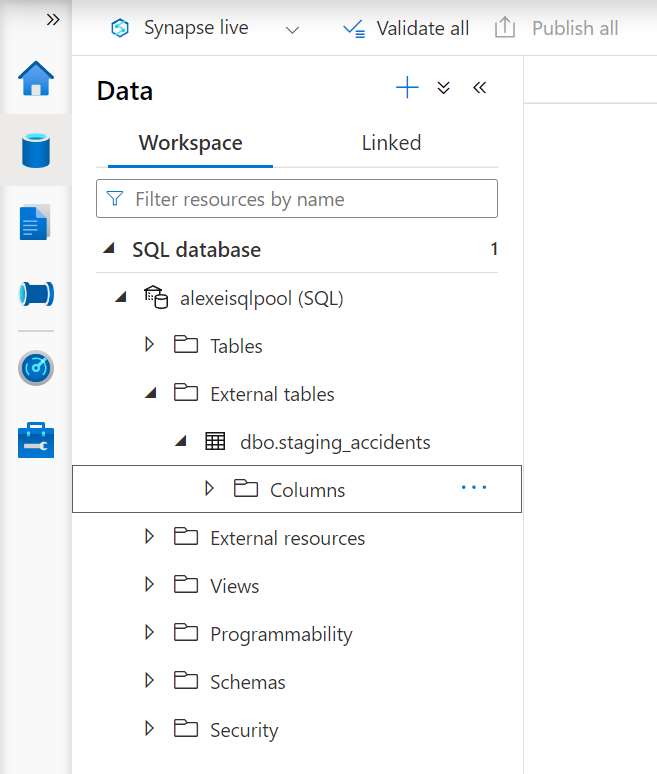
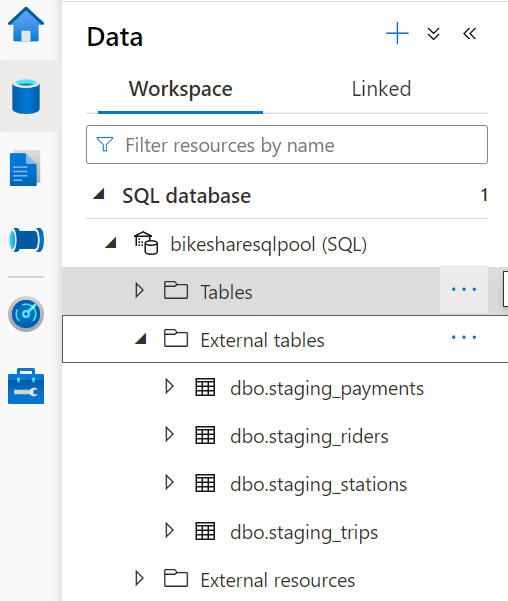
staging tables

diff --git a/README.md b/README.md
@@ -99,15 +99,19 @@ In the data section, you will find your newly created link :
 
 Once in Blob storage, the files will be shown in the data lake node in the Synapse Workspace. From here, we can use the script generating function to load the data from blob storage into external staging tables in the data warehouse we created using the Dedicated SQL Pool.
 
-Upload us-accidents.csv to Data/Azure DataLake Storage Gen2 ??????
+Upload all data files to Data/Azure DataLake Storage Gen2 ??????
 
-1. Create external table
+1. Create external table for all the staging tables.
 <img src="/pictures/create-external-table.png" title="create external table"  width="700">
+<img src="/pictures/create-external-table-config.png" title="create external table"  width="700">
 
-2. Then run the script to create a **staging table**. You should first give meaning names to the columns. Note that DATETIME type is not well understood by Azure and you should turn them to VARCHAR(20).
+2. Then run the script to create a **staging table** for all staging tables.
+- You should first give meaning names to the columns. 
+- Note that DATETIME type is not well understood by Azure and you should turn them to VARCHAR(50).
+- make sure you are on **bikesharesqlpool** and not the **master** database.
 <img src="/pictures/external-table-script.png" title="external table script"  width="700">
 
-3. You should now see an external table created in the *Data/Workspace* section :
+3. You should now see the external tables created in the *Data/Workspace* section :
 <img src="/pictures/newly-created-table.png" title="newly created table"  width="300">
 
 3. You should now be able to run any query on the newly created table :
